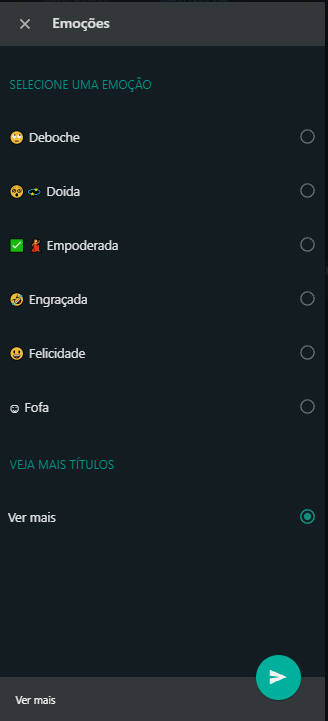
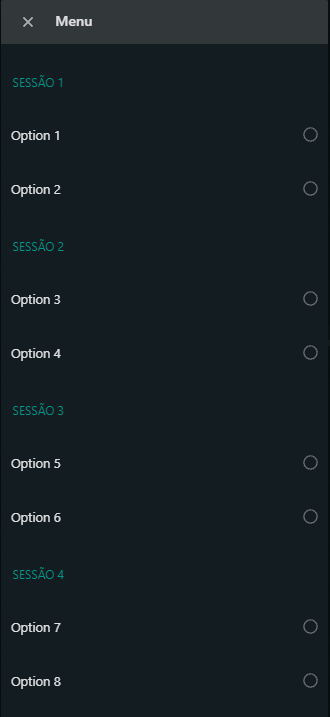
docs: createMenu script documentation

diff --git a/src/create-menu/README.md b/src/create-menu/README.md
@@ -1,24 +1,127 @@
 # createMenu
 
-This script has some functions to create menus personality for each channel and with some formats configured by user.
+This script has some functions to create custom menus for each channel in a practical way and with support for several customizations.
+
+This script has a main function called `createMenu` which receives the settings passed to the menu generation and returns a `menu` object with the `content` and `type` fields. These two fields must be used in the dynamic content block in the Builder, as illustrated in the image below.
+
+![how to use the variable menu example](../../imgs/how_to_use_the_variable_menu.png)
+
+To use it on the Blip platform, just copy and paste the script into a resource variable on the router bot as a text variable. For this example I stored the script in a variable called `scriptMenu`. Next, add a script as an input action in the block where you want to display the menu and call the `createMenu` function passing the `props` and `config` objects as parameters.
+
+![how to use the variable menu example](../../imgs/how_to_use_script.png)
+
+The props object must contain the properties of the menu to be generated. An object is expected with the fields `userChannel` (string with the name of the user's channel. It must be the same as some key of the menuFields.text field), `channelBoldTags` (Object with the opening and closing tags in bold in the platform informed ), `userLanguage` (language of the menu texts. It must be the same as some language informed in the fields of the menuFields object) and `menuFields` (Object with the fields of the menu to be generated).
+
+Below is an example of the channelBoldTags object configured for the whatsapp channel.
+
+```Javascript
+const channelBoldTags = {
+    open: '*',
+    close: '*'
+}
+```
+
+The `config` object is optional and defines the type of menu to be generated. By default, Quick Reply type menus are always generated when possible and text type menus when Quick Reply is not possible. When the generated menu is of the text type, the order of the numbers of the options is ascending.
+
+Config object structure:
+
+```Javascript
+const config = {
+    hasDefaultQuickReply = true,
+    hasWppQuickReply = true,
+    hasWppListMenu = false,
+    isBlipImmediateMenu = true,
+    orderOptions = 'asc'
+}
+```
+
+The `orderOptions` field informs the order in which the options indexes will be generated in the text menu. The order can be ascending (asc) or descending (desc). The field `hasWppListMenu` informs that the check list type menu will be generated when the channel is Whatsapp. The `hasWppQuickReply` field informs that the quick reply menu will be generated when the channel is Whatsapp. The `hasDefaultQuickReply` field informs that whenever possible a quick reply menu will be generated. Finally, the `isBlipImmediateMenu` field sets the quick reply menu to disappear after the user selects an option.
 
 ## Text menu
 
 Is a menu that is a text message formatted like a menu. This type of menu works in whathever channel and the user answers this message with a direct input by keyboard.
 
-![Text Menu](../../imgs/text_menu.png)
+![text menu example](../../imgs/text_menu.png)
 
-For break a line between options like in the image above, insert a '\n' character in the beginning of the text option.
+For this menu, there are some settings to customize it. It has four fields:
 
-Example:
+-   Header (optional): a text that appears at the top of the menu.
+-   Text: a string describing the question / menu options.
+-   Options: A list of options to be selected by the user.
+-   Footer (Optional): A text that appears at the bottom of the menu, after the menu options.
 
-```JSON
+![text menu with sections example](../../imgs/text_menu_with_sections.png)
+
+To use this menu, create a structure like the one described in the example below and add this variable to the `props` object.
+
+```Javascript
+const menuFields = {
+        text: {
+            default: {
+                'en-US': `This is a text to describe the menu that will be generated to Default channel, the user will ${channelBoldTags.open}choose one of the options bellow${channelBoldTags.close}`,
+                'pt-BR': `Este é um texto para descrever o menu que será gerado para o canal Padrão, o usuário ${channelBoldTags.open} escolherá uma das opções abaixo de ${channelBoldTags.close}`
+            },
+            whatsapp: {
+                'en-US': `This is a text to describe the menu that will be generated to WhatsApp channel, the user will ${channelBoldTags.open}choose one of the options bellow${channelBoldTags.close}`,
+                'pt-BR': `Este é um texto para descrever o menu que será gerado para o canal Whatsapp, o usuário ${channelBoldTags.open} escolherá uma das opções abaixo de ${channelBoldTags.close}`
+            },
+            facebook: {
+                'en-US': `This is a text to describe the menu that will be generated to Facebook channel, the user will ${channelBoldTags.open}choose one of the options bellow${channelBoldTags.close}`,
+                'pt-BR': `Este é um texto para descrever o menu que será gerado para o canal Facebook, o usuário ${channelBoldTags.open} escolherá uma das opções abaixo de ${channelBoldTags.close}`
+            },
+            telegram: {
+                'en-US': `This is a text to describe the menu that will be generated to Telegram channel, the user will ${channelBoldTags.open}choose one of the options bellow${channelBoldTags.close}`,
+                'pt-BR': `Este é um texto para descrever o menu que será gerado para o canal Telegram, o usuário ${channelBoldTags.open} escolherá uma das opções abaixo de ${channelBoldTags.close}`
+            }
+        },
+        options: {
+            'en-US': ['Option 1', 'Option 2', 'Option 3'],
+            'pt-BR': ['Opção 1', 'Opção 2', 'Opção 3']
+        },
+        header: {
+            'en-US':
+                'This is a text to describe the menu (in the top)',
+            'pt-BR':
+                'Este é um texto para descrever o menu (no topo)'
+        },
+        footer: {
+            'en-US':
+                'This is a text to describe the menu (in the bottom)',
+            'pt-BR':
+                'Este é um texto para descrever o menu (na parte inferior)'
+        }
+    };
+```
+
+The options field can be passed in two ways, as an array of strings or as a dictionary whose key is a string and the value is an array of strings. In the first case, the generated menu will only have a continuous list with the array options. In the second case the options will be separated by sessions whose session title is the key and the session options are the strings of that key's array of options. In both cases, you can place the special character `\n` at the beginning of the text of one of the options to skip a line, as noted in the first screenshot of this section.
+
+Example for creating an option menu without sessions:
+
+```Javascript
 const menuFields = {
 ...
-    'options': {
-        'en-US': ['Option 1', 'Option 2', '\nOption 3'],
+    options: {
         'pt-BR': ['Opção 1', 'Opção 2', '\nOpção 3']
     },
+...
+}
+```
+
+Example for creating an option menu with sessions:
+
+```Javascript
+const menuFields = {
+...
+    options: {
+            'en-US': {
+                "Section 1": ['Option 1', 'Option 2', 'Option 3', 'Option 4', 'Option 5'],
+                "Section 2": ['Option 6', 'Option 7', 'Option 8']
+            },
+            'pt-BR': {
+                "Sessão 1": ['Option 1', 'Option 2', 'Option 3', 'Option 4', 'Option 5'],
+                "Sessão 2": ['Option 6', 'Option 7', 'Option 8']
+            }
+        },
 ...
 }
 ```
@@ -27,13 +130,13 @@ const menuFields = {
 
 Is a menu that have iterative buttons that user can click and send a message without interact with keyboard. This type of menu works on Whatsapp, Blipchat, Facebook, Workchat and Telegram.
 
-![Text Menu](../../imgs/wpp_quick_reply.png)
+![Whatsapp quick reply example](../../imgs/wpp_quick_reply.png)
 
 For the Whatsapp channel this menu supported media types like video, image and documents. To use media files in this menu, the header fields in props object shoud be a object media for Whatsapp. You can see more datails in this [link](https://developers.facebook.com/docs/whatsapp/guides/interactive-messages).
 
 The examples below show how to configure the header field for send media files on whatsapp quick reply menu.
 
-```JSON
+```Javascript
 # For image
 "header": {
     "type": "image",
@@ -61,26 +164,37 @@ The examples below show how to configure the header field for send media files o
 ```
 
 The Quick Reply Menu in Whatsapp channel whith a video is showed in the image bellow.
-![Text Menu](../../imgs/wpp_quick_reply_with_video.png)
+
+![Whatsapp button menu with video example](../../imgs/wpp_quick_reply_with_video.png)
+
+The menu fields are detailed in the image below.
+
+![Whatsapp menu fields ilustrate](https://scontent.fplu23-1.fna.fbcdn.net/v/t39.8562-6/185178652_167746018610362_8499207846916681529_n.png?_nc_cat=102&ccb=1-5&_nc_sid=6825c5&_nc_ohc=baP0fBE23EMAX_GRyIX&_nc_ht=scontent.fplu23-1.fna&oh=1cfe26553c377919b8aff7f004af59cb&oe=615A4E98)
 
 ## Whatsapp List menu
 
 Is a menu that have a check box list. This menu have two states, opened and closed. When is closed the menu have just a text of body and the button to open it. When is open the menu show the options list in a check box and after the user select one option, a button to send the message apear in the end of menu.
 
-![Text Menu](../../imgs/wpp_list_menu.png)
-![Text Menu](../../imgs/wpp_list_menu_open.png)
+![Whatsapp list menu fields example](../../imgs/wpp_list_menu.png)
+![Whatsapp list menu fields example](../../imgs/wpp_list_menu_open.png)
 
-You can separate menu options into sessions by sending an object in the options field.
+The menu fields are detailed in the image below.
+
+![Whatsapp menu fields ilustrate](https://scontent.fplu23-1.fna.fbcdn.net/v/t39.8562-6/183554814_504218921028568_8013384280208209094_n.png?_nc_cat=101&ccb=1-5&_nc_sid=6825c5&_nc_ohc=Hx-a5IH7w44AX_43kmD&_nc_ht=scontent.fplu23-1.fna&oh=ebe5909a912cffd5f1e591b1f8e6af16&oe=6159CEF3)
+
+You can separate menu options into sessions by sending an object in the options field. As default, the menu have none sections.
 
 Example:
 
-```JSON
+```Javascript
 options: {
     'pt-BR': {
-        "Selecione uma emoção": ['🙄 Deboche', '😵💫 Doida', '✅💃 Empoderada', '🤣 Engraçada', '😃 Felicidade', '🥸 Fofa'],
-        "Veja mais títulos": ['Ver mais']
-    }
+                "Sessão 1": ['Option 1', 'Option 2'],
+                "Sessão 2": ['Option 3', 'Option 4'],
+                "Sessão 3": ['Option 5', 'Option 6'],
+                "Sessão 4": ['Option 7', 'Option 8']
+            }
 },
 ```
 
-![Text Menu](../../imgs/wpp_list_menu_open_with_sections.png)
+![Whatsapp list menu fields example](../../imgs/wpp_list_menu_open_with_sections.png)

diff --git a/AUTHORS.md b/AUTHORS.md
@@ -2,5 +2,6 @@
 
 **Ordered by first contribution.**
 
-- Joao Soares de Matos Neto ([joaosoaresmatos28@gmail.com](joaosoaresmatos28@gmail.com))
-- Pietro Bondioli ([pietrobondiolideveloper@gmail.com](pietrobondiolideveloper@gmail.com))
+-   Joao Soares de Matos Neto ([joaosoaresmatos28@gmail.com](joaosoaresmatos28@gmail.com))
+-   Pietro Bondioli ([pietrobondiolideveloper@gmail.com](pietrobondiolideveloper@gmail.com))
+-   Raphael de Assis Silva ([contato.raphael.assis@gmail.com](contato.raphael.assis@gmail.com))
